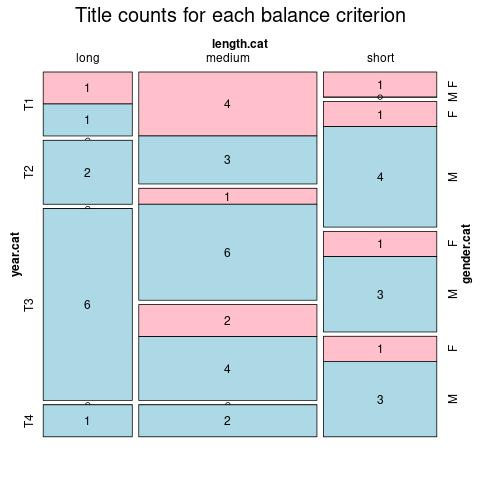
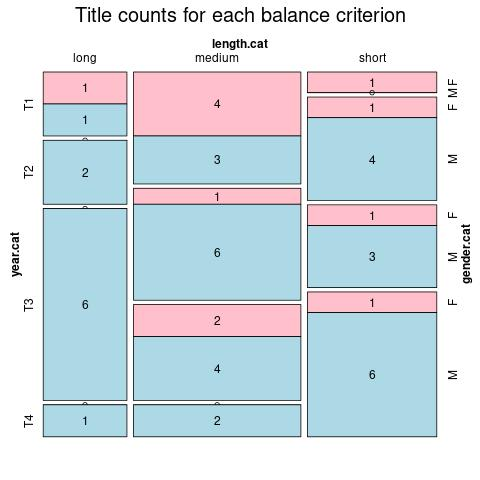
update slv

diff --git a/ELTeC/spa/index.html b/ELTeC/spa/index.html
@@ -5,7 +5,7 @@
       <title>Contents of ELTeC-spa</title>
    </head>
    <body>
-      <h4>On 2020-07-11 ELTeC-spa contains 47 texts containing 4050738 words</h4>
+      <h4>On 2020-07-17 ELTeC-spa contains 50 texts containing 4138547 words</h4>
       <p class="graphic"><img src="mosaic.png"><input type="button" value="Explainer" onclick="window.open('../explainer.html','popUpWindow',         'height=600,width=500,left=100,top=100,resizable=yes,         scrollbars=yes,toolbar=no,menubar=no,location=no,directories=no, status=yes');"></p>
       <p class="explain">Click on a column heading to sort. Click on a text identifier to
          read the text (may not work in older browsers).</p>
@@ -500,7 +500,7 @@
             <td>(medium) </td>
             <td>1896 (T3) </td>
             <td>La enferma </td>
-            <td>Zamacois, Eduardo</td>
+            <td>Zamacois, Eduardo (1873-1971)</td>
             <td>M</td>
             <td>low</td>
          </tr>
@@ -587,6 +587,42 @@
             <td>Burgos y Seguí, Carmen de [Colombine] (1867 - 1932)</td>
             <td>F</td>
             <td>low</td>
+         </tr>
+         <tr>
+            <td><a href="SPA4008.html">SPA4008</a><a href="https://raw.githubusercontent.com/COST-ELTeC/ELTeC-spa/master/level1/SPA4008_Ciges_Vicario.xml"><img src="../../media/teiLogo.jpg"></a></td>
+            <td>eltec-1</td>
+            <td></td>
+            <td>41609</td>
+            <td>(short) </td>
+            <td>1905 (T4) </td>
+            <td>El Vicario </td>
+            <td>Ciges Aparicio, Manuel (1873-1936)</td>
+            <td>M</td>
+            <td>low</td>
+         </tr>
+         <tr>
+            <td><a href="SPA4009.html">SPA4009</a><a href="https://raw.githubusercontent.com/COST-ELTeC/ELTeC-spa/master/level1/SPA4009_ValleInclan_SonataOtonyo.xml"><img src="../../media/teiLogo.jpg"></a></td>
+            <td>eltec-1</td>
+            <td></td>
+            <td>20865</td>
+            <td>(short) </td>
+            <td>1902 (T4) </td>
+            <td>Sonata de otoño </td>
+            <td>Valle-Inclán, Ramón María del (1866-1936)</td>
+            <td>M</td>
+            <td>high</td>
+         </tr>
+         <tr>
+            <td><a href="SPA4010.html">SPA4010</a><a href="https://raw.githubusercontent.com/COST-ELTeC/ELTeC-spa/master/level1/SPA4010_ValleInclan_Resplandor.xml"><img src="../../media/teiLogo.jpg"></a></td>
+            <td>eltec-1</td>
+            <td></td>
+            <td>25335</td>
+            <td>(short) </td>
+            <td> (T4) </td>
+            <td>El resplandor de la hoguera </td>
+            <td>Valle-Inclán, Ramón del (1866-1936)</td>
+            <td>M</td>
+            <td>high</td>
          </tr>
       </table><script>
                     function sortTable(n) {

diff --git a/ELTeC/index.html b/ELTeC/index.html
@@ -116,7 +116,7 @@ problems are much appreciated: send them to the <a href="https://github.com/dist
    <td class="sep"><span style="color:green">98.46</span></td>
 </tr><tr>
    <td class="lang"><a href="fra/index.html">fra</a></td>
-   <td>2020-07-12</td>
+   <td>2020-07-16</td>
    <td><span title="10">100</span></td>
    <td>7986274</td>
    <td class="sep">64</td>
@@ -276,7 +276,7 @@ problems are much appreciated: send them to the <a href="https://github.com/dist
    <td class="sep"><span style="color:green">79.23</span></td>
 </tr><tr>
    <td class="lang"><a href="slv/index.html">slv</a></td>
-   <td>2020-04-26</td>
+   <td>2020-07-18</td>
    <td><span title="10">100</span></td>
    <td>5682120</td>
    <td class="sep">89</td>
@@ -296,24 +296,24 @@ problems are much appreciated: send them to the <a href="https://github.com/dist
    <td class="sep"><span style="color:green">78.46</span></td>
 </tr><tr>
    <td class="lang"><a href="spa/index.html">spa</a></td>
-   <td>2020-07-09</td>
-   <td><span style="color:red" title="4">47</span></td>
-   <td>4050738</td>
-   <td class="sep">35</td>
+   <td>2020-07-17</td>
+   <td><span title="5">50</span></td>
+   <td>4138547</td>
+   <td class="sep">38</td>
    <td><span title="10">12</span></td>
-   <td><span title="7">25</span></td>
+   <td><span title="8">28</span></td>
    <td><span title="5">2</span></td>
-   <td class="sep"><span title="10">14</span></td>
+   <td class="sep"><span title="11">17</span></td>
    <td>22</td>
    <td><span title="10">11</span></td>
    <td class="sep">10</td>
    <td>14</td>
    <td>16</td>
-   <td>7</td>
-   <td><span title="8">9</span></td>
-   <td class="sep">29</td>
-   <td><span title="10">18</span></td>
-   <td class="sep"><span style="color:green">76.92</span></td>
+   <td>10</td>
+   <td><span title="9">6</span></td>
+   <td class="sep">31</td>
+   <td><span title="10">19</span></td>
+   <td class="sep"><span style="color:green">82.31</span></td>
 </tr><tr>
    <td class="lang"><a href="srp/index.html">srp</a></td>
    <td>2020-07-05</td>
@@ -334,4 +334,4 @@ problems are much appreciated: send them to the <a href="https://github.com/dist
    <td class="sep">15</td>
    <td><span title="11">30</span></td>
    <td class="sep">68.46</td>
-</tr></table><p>Summary produced: 2020-07-16</p></body></html>
+</tr></table><p>Summary produced: 2020-07-18</p></body></html>

diff --git a/ELTeC/por/index.html b/ELTeC/por/index.html
@@ -5,7 +5,7 @@
       <title>Contents of ELTeC-por</title>
    </head>
    <body>
-      <h4>On 2020-07-16 ELTeC-por contains 98 texts containing 6417133 words</h4>
+      <h4>On 2020-07-18 ELTeC-por contains 98 texts containing 6417133 words</h4>
       <p class="graphic"><img src="mosaic.png"><input type="button" value="Explainer" onclick="window.open('../explainer.html','popUpWindow',         'height=600,width=500,left=100,top=100,resizable=yes,         scrollbars=yes,toolbar=no,menubar=no,location=no,directories=no, status=yes');"></p>
       <p class="explain">Click on a column heading to sort. Click on a text identifier to
          read the text (may not work in older browsers).</p>
@@ -29,7 +29,7 @@
             <td>145767</td>
             <td>(long) </td>
             <td>1868 (T2) </td>
-            <td>A Morgadinha dos Cannaviaes </td>
+            <td>A Morgadinha dos Canaviais </td>
             <td>Dinis, Júlio (1839-1871)</td>
             <td>M</td>
             <td>high</td>
@@ -293,7 +293,7 @@
             <td>58257</td>
             <td>(medium) </td>
             <td>1844 (T1) </td>
-            <td> Eurico, o Presbytero</td>
+            <td> Eurico, o Presbítero</td>
             <td>Herculano, Alexandre (1810-1877)</td>
             <td>M</td>
             <td>high</td>

diff --git a/css/summary.css b/css/summary.css
@@ -1,51 +1,52 @@
-body{
-    color:#000000;
-    background-color:#FFFFFF;
-    margin:1cm;
-    padding:0;
-    font-family:Verdana, Tahoma, Geneva, Arial, Helvetica, sans-serif;
+body {
+ color: #000000;
+ background-color: #FFFFFF;
+ margin: 1cm;
+ padding: 0;
+ font-family: Verdana, Tahoma, Geneva, Arial, Helvetica, sans-serif;
 }
 
 
 table {
-  border-spacing: 0;
-  border: 1px solid #ddd;
+ border-spacing: 0;
+ border: 1px solid #ddd;
 }
 
 th {
-  cursor: pointer;
+ cursor: pointer;
 }
 
-th, td {
-  text-align: right;
-  padding: 2mm;
+th,
+td {
+ text-align: right;
+ padding: 2mm;
 }
 
 thead tr > td {
-    text-align: center;
+ text-align: center;
 }
 
 thead {
-    background-color:#e6e6e6;
-    font-size:larger;   
+ background-color: #e6e6e6;
+ font-size: larger;
 }
 
 
 td.sep {
-    padding-left :4mm;
-    border-left: 1mm solid #ddd;
+ padding-left: 4mm;
+ border-left: 1mm solid #ddd;
 
 }
 
 
 td.lang {
-    background-color:#e6e6e6;
-    font-size:larger;   
-    text-align:left;
+ background-color: #e6e6e6;
+ font-size: larger;
+ text-align: left;
 }
 td.label {
-    background-color:#e6e6e6;
-    font-size:larger;   
-    text-align:left;
+ background-color: #e6e6e6;
+ font-size: larger;
+ text-align: left;
 }
 

diff --git a/ELTeC/fra/index.html b/ELTeC/fra/index.html
@@ -5,7 +5,7 @@
       <title>Contents of ELTeC-fra</title>
    </head>
    <body>
-      <h4>On 2020-07-13 ELTeC-fra contains 100 texts containing 7986274 words</h4>
+      <h4>On 2020-07-17 ELTeC-fra contains 100 texts containing 7986274 words</h4>
       <p class="graphic"><img src="mosaic.png"><input type="button" value="Explainer" onclick="window.open('../explainer.html','popUpWindow',         'height=600,width=500,left=100,top=100,resizable=yes,         scrollbars=yes,toolbar=no,menubar=no,location=no,directories=no, status=yes');"></p>
       <p class="explain">Click on a column heading to sort. Click on a text identifier to
          read the text (may not work in older browsers).</p>

diff --git a/ELTeC/slv/index.html b/ELTeC/slv/index.html
@@ -5,7 +5,7 @@
       <title>Contents of ELTeC-slv</title>
    </head>
    <body>
-      <h4>On 2020-07-11 ELTeC-slv contains 100 texts containing 5682120 words</h4>
+      <h4>On 2020-07-18 ELTeC-slv contains 100 texts containing 5682120 words</h4>
       <p class="graphic"><img src="mosaic.png"><input type="button" value="Explainer" onclick="window.open('../explainer.html','popUpWindow',         'height=600,width=500,left=100,top=100,resizable=yes,         scrollbars=yes,toolbar=no,menubar=no,location=no,directories=no, status=yes');"></p>
       <p class="explain">Click on a column heading to sort. Click on a text identifier to
          read the text (may not work in older browsers).</p>
